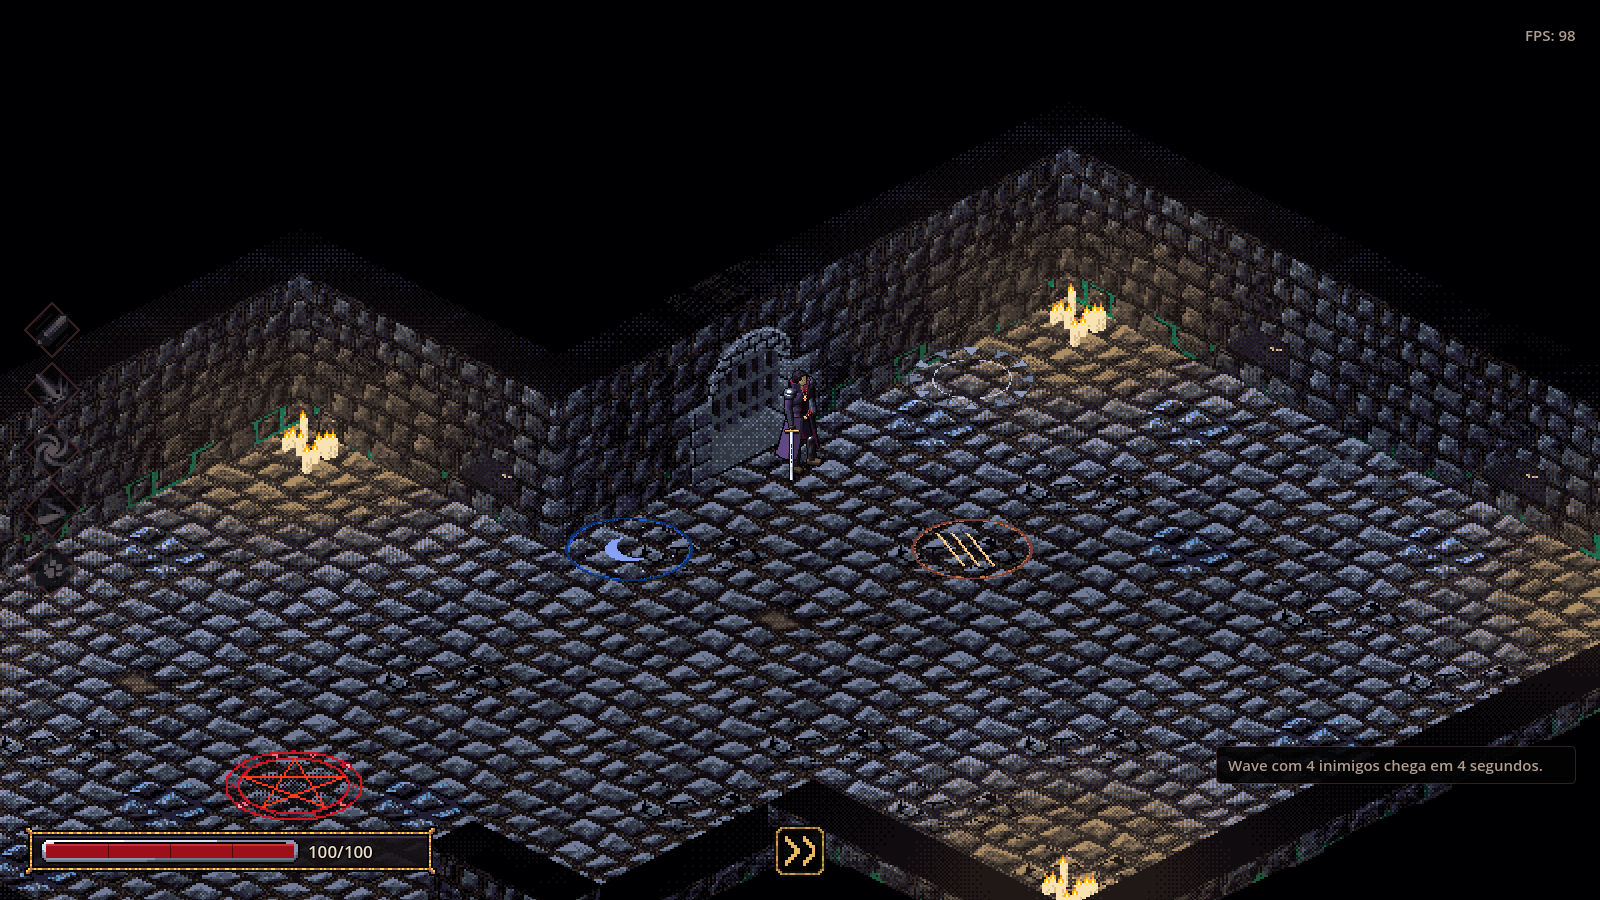
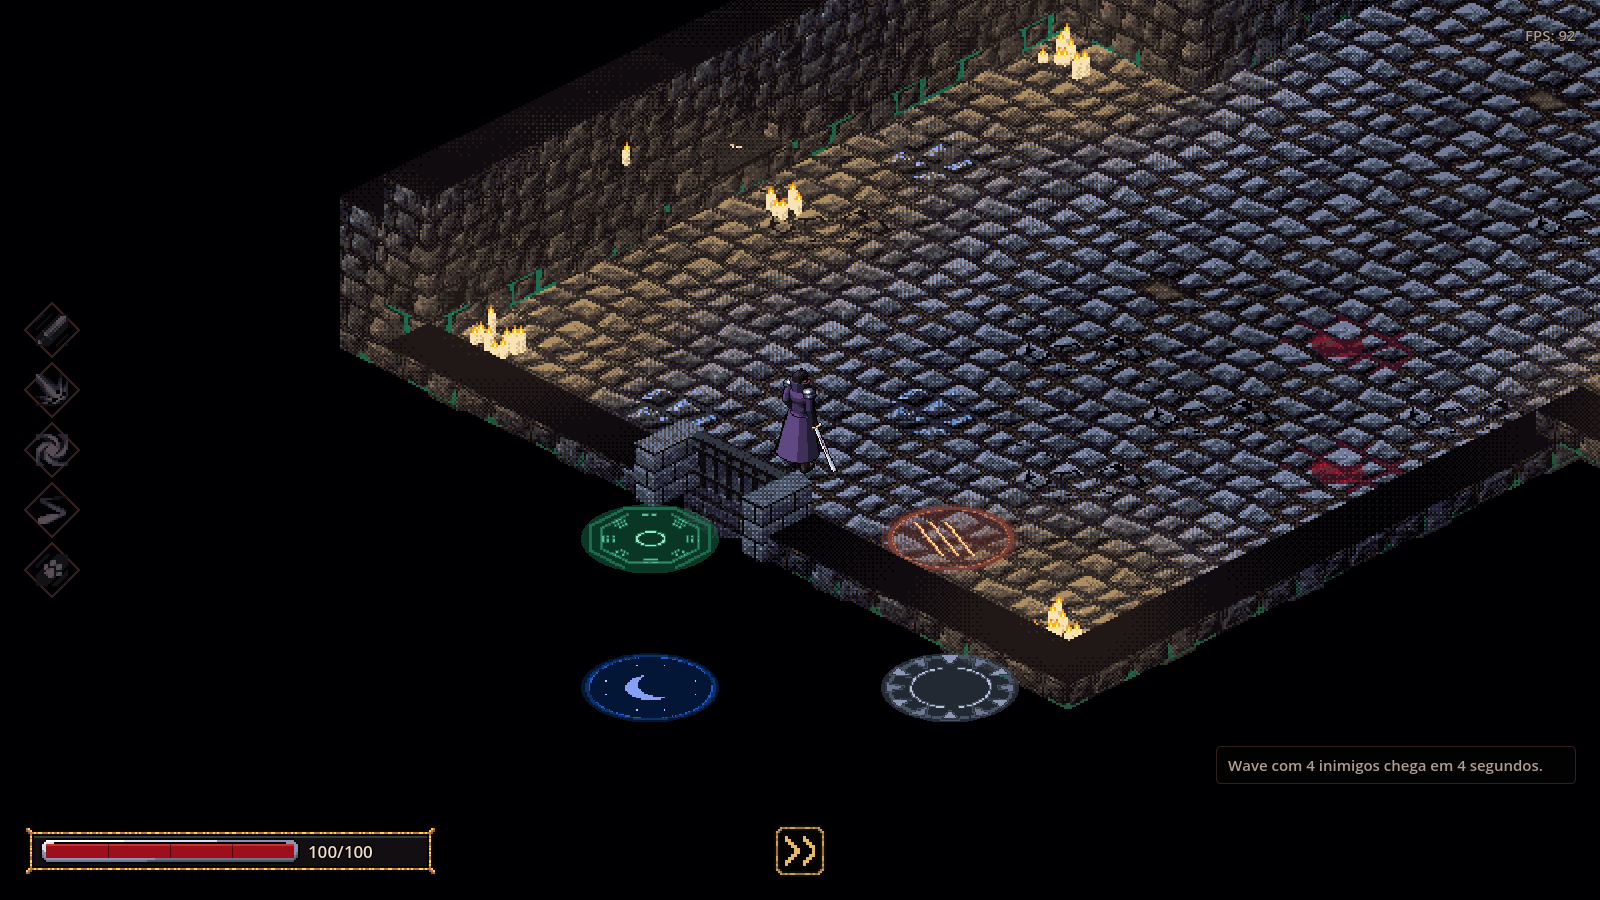
chore: capturas dos aneis das familias v2

diff --git a/scripts/ui/HUD.Notifications.cs b/scripts/ui/HUD.Notifications.cs
@@ -382,10 +382,10 @@ public partial class HUD
 		}
 		var rings = new (FamilyRing Ring, Vector3 Offset, Color Color)[]
 		{
-			(FamilyRing.Claws, new Vector3(4.0f, 0.0f, 0.0f), new Color(0.93f, 0.4f, 0.3f)),
-			(FamilyRing.Bagua, new Vector3(-4.0f, 0.0f, 0.0f), new Color(0.9f, 0.5f, 0.75f)),
-			(FamilyRing.Moon, new Vector3(0.0f, 0.0f, 4.0f), new Color(0.7f, 0.7f, 1.0f)),
-			(FamilyRing.Shadow, new Vector3(0.0f, 0.0f, -4.0f), new Color(0.6f, 0.3f, 0.9f))
+			(FamilyRing.Claws, new Vector3(3.5f, 0.0f, 0.0f), new Color(0.93f, 0.4f, 0.3f)),
+			(FamilyRing.Bagua, new Vector3(0.0f, 0.0f, 3.5f), new Color(0.9f, 0.5f, 0.75f)),
+			(FamilyRing.Moon, new Vector3(3.5f, 0.0f, 7.0f), new Color(0.7f, 0.7f, 1.0f)),
+			(FamilyRing.Shadow, new Vector3(7.0f, 0.0f, 3.5f), new Color(0.6f, 0.3f, 0.9f))
 		};
 		foreach (var (ring, offset, color) in rings)
 			FamilyFx.Pulse(player, origin + offset, 3.0f, color, 0.6f, ring);
